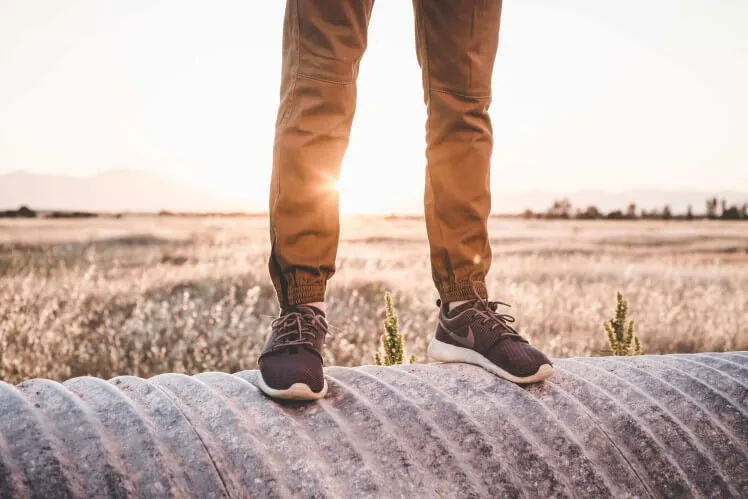
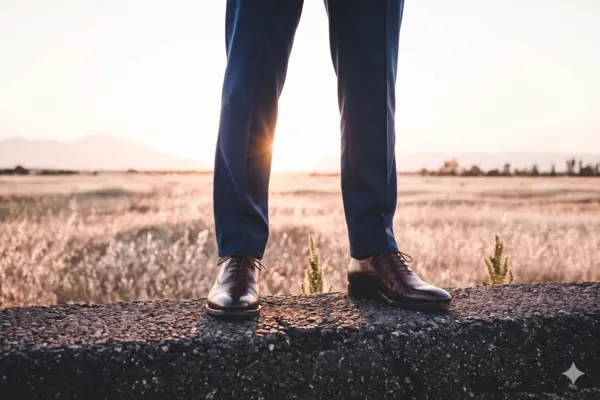
update-image

diff --git a/components/Offer.vue b/components/Offer.vue
@@ -69,6 +69,45 @@ export default {
             " Wszywanie zamków",
           ],
         },
+
+        {
+          url: "/images/jacket.webp",
+          title: "MARYNARKI",
+          info: [
+            "Skracanie długości",
+            "Skracanie rękawów",
+            "Zwężanie ramion",
+            "Taliowanie",
+            "Przyszywanie guzików",
+          ],
+        },
+        {
+          url: "/images/skirt.webp",
+          title: "SPÓDNICE",
+          info: [
+            "Zwężanie",
+            "Skracanie długości",
+            "Wszywanie zamków",
+            "Wymiana podszewki",
+          ],
+        },
+        {
+          url: "/images/coat.webp",
+          title: "PŁASZCZE",
+          info: [
+            "Skracanie długości",
+            "Skracanie rękawów",
+            "Zwężanie",
+            "Przyszywanie guzików",
+          ],
+        },
+        {
+          url: "/images/room.webp",
+          title: "ZASŁONY i OBRUSY",
+          info: ["Skracanie", "Obszywanie"],
+        },
+      ],
+      boxesDataLeft: [
         {
           url: "/images/shirt2.webp",
           title: "KOSZULE",
@@ -77,6 +116,17 @@ export default {
             "Skracanie rękawów",
             "Zwężanie",
             "Taliowanie",
+          ],
+        },
+        {
+          url: "/images/trausers.webp",
+          title: "SPODNIE",
+          info: [
+            "Skracanie długości",
+            "Wydłużanie",
+            "Wszywanie zamków",
+            "Zwężanie w pasie",
+            "Zwężanie nogawek",
           ],
         },
         {
@@ -92,16 +142,6 @@ export default {
           ],
         },
         {
-          url: "/images/coat.webp",
-          title: "PŁASZCZE",
-          info: [
-            "Skracanie długości",
-            "Skracanie rękawów",
-            "Zwężanie",
-            "Przyszywanie guzików",
-          ],
-        },
-        {
           url: "/images/mundur.webp",
           title: "MUNDURY",
           info: [
@@ -109,45 +149,6 @@ export default {
             "Skracanie spodni, spódniczek, koszul",
             "Przyszywanie emblematów",
           ],
-        },
-      ],
-      boxesDataLeft: [
-        {
-          url: "/images/trausers.webp",
-          title: "SPODNIE",
-          info: [
-            "Skracanie długości",
-            "Wydłużanie",
-            "Wszywanie zamków",
-            "Zwężanie w pasie",
-            "Zwężanie nogawek",
-          ],
-        },
-        {
-          url: "/images/skirt.webp",
-          title: "SPÓDNICE",
-          info: [
-            "Zwężanie",
-            "Skracanie długości",
-            "Wszywanie zamków",
-            "Wymiana podszewki",
-          ],
-        },
-        {
-          url: "/images/jacket.webp",
-          title: "MARYNARKI",
-          info: [
-            "Skracanie długości",
-            "Skracanie rękawów",
-            "Zwężanie",
-            "Taliowanie",
-            "Przyszywanie guzików",
-          ],
-        },
-        {
-          url: "/images/room.webp",
-          title: "ZASŁONY i OBRUSY",
-          info: ["Skracanie", "Obszywanie"],
         },
       ],
     };
